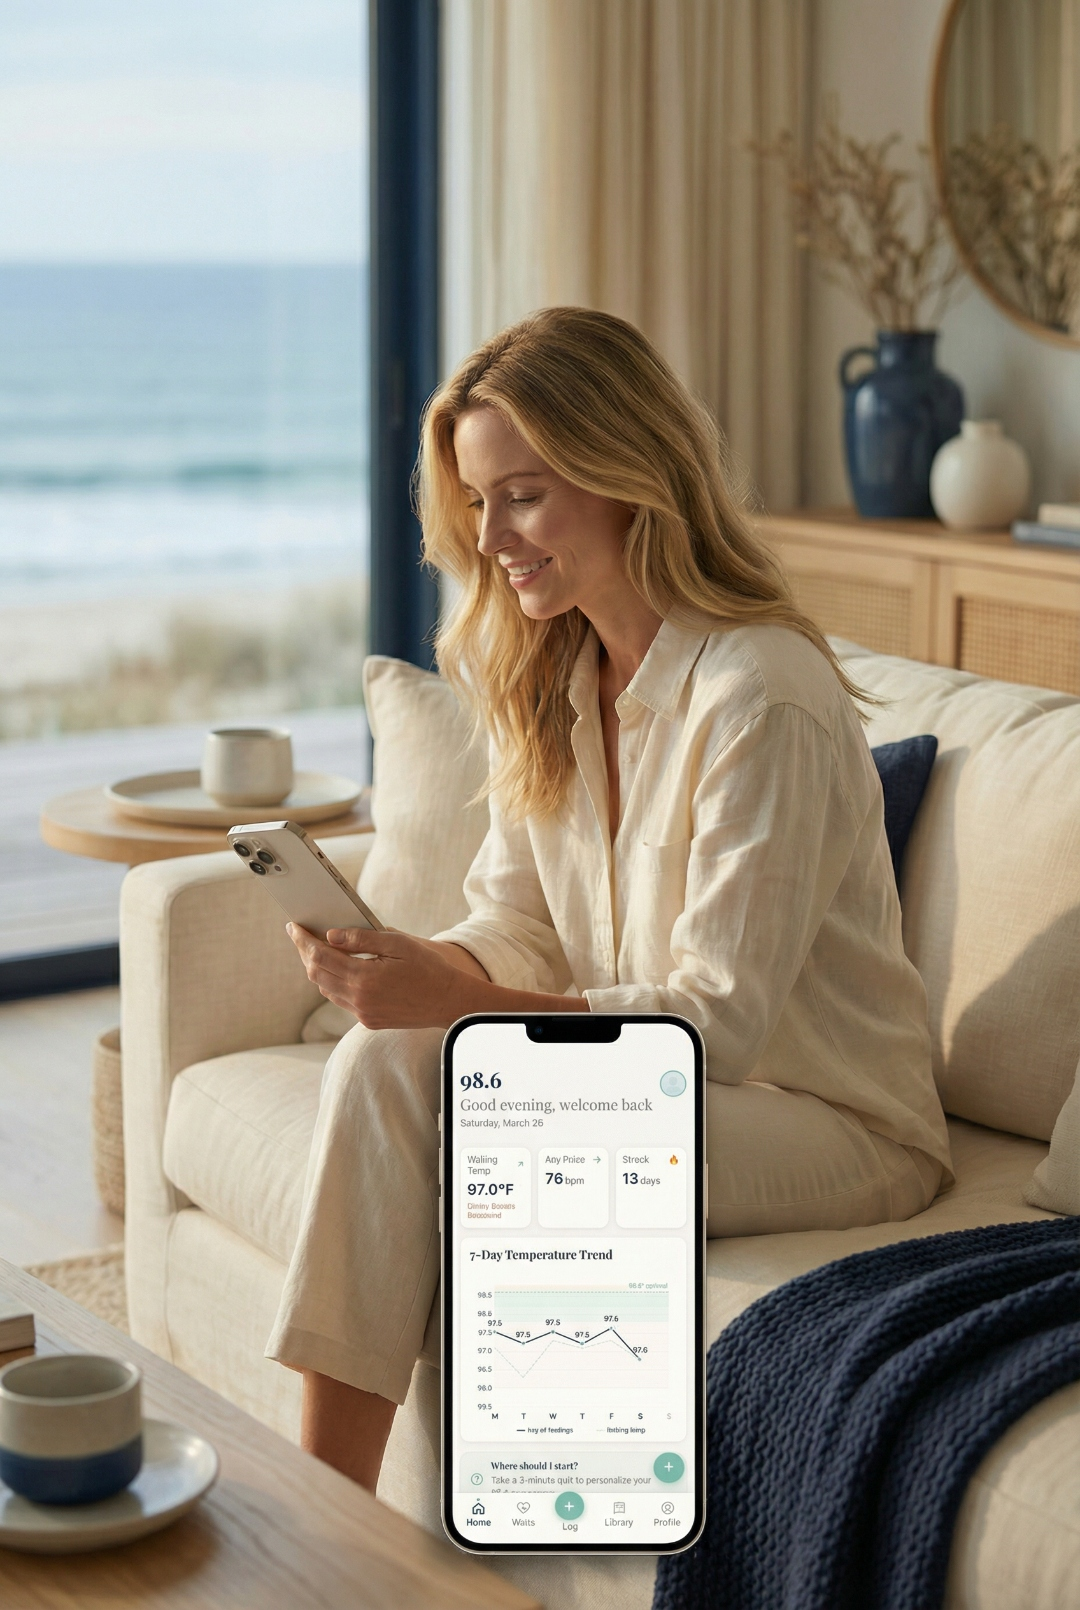
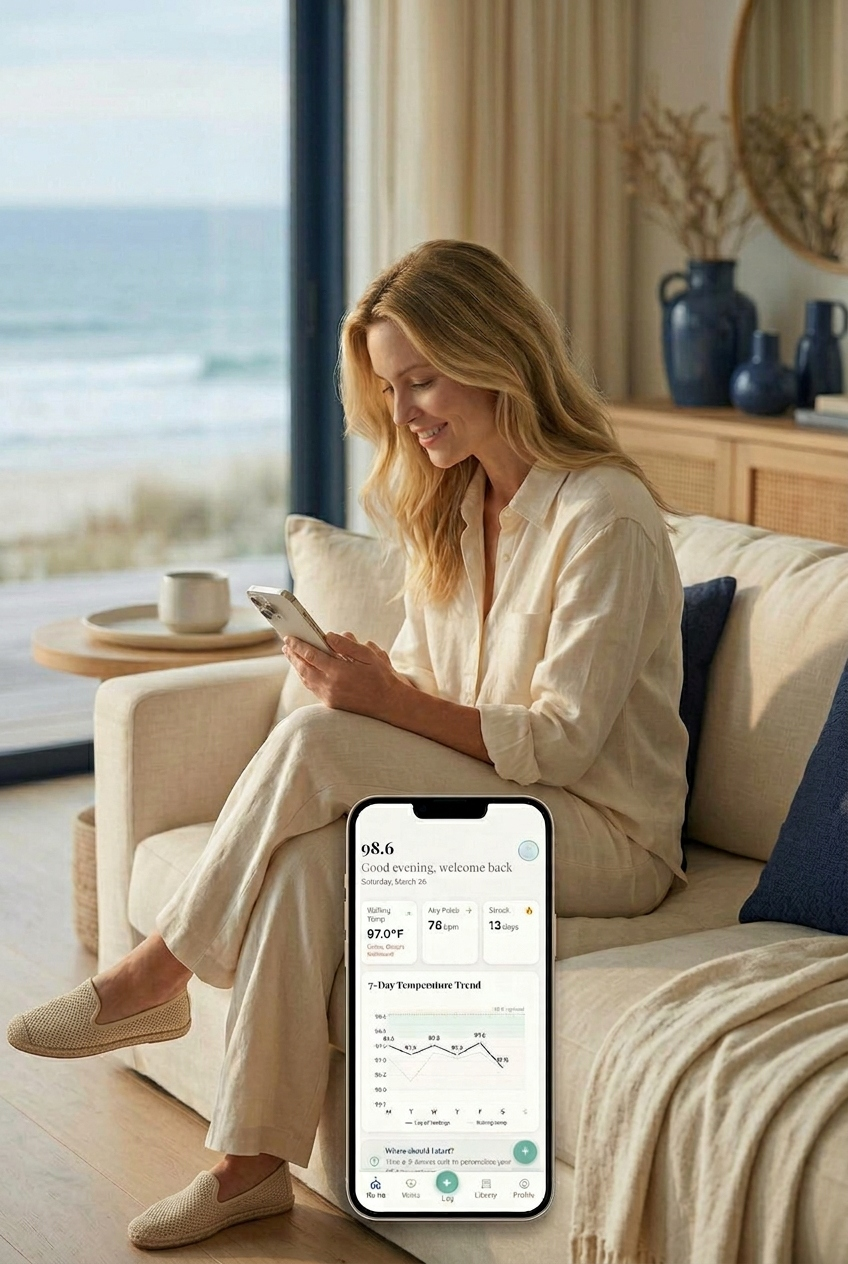
Replace hero image and simplify mobile hero layout

diff --git a/index.html b/index.html
@@ -391,6 +391,19 @@ a, button {
   font-weight: 300;
 }
 
+.hero__sub--mobile {
+  display: none;
+}
+
+@media (max-width: 768px) {
+  .hero__sub--desktop {
+    display: none;
+  }
+  .hero__sub--mobile {
+    display: block;
+  }
+}
+
 .hero__actions {
   display: flex;
   flex-wrap: wrap;
@@ -451,18 +464,14 @@ a, button {
 .hero__image-wrap {
   position: relative;
   border-radius: 1rem;
-  overflow: hidden;
-  box-shadow: 0 6px 30px rgba(31, 54, 84, 0.09), 0 2px 8px rgba(31, 54, 84, 0.05);
-  max-height: 580px;
+  overflow: visible;
   align-self: center;
 }
 
 .hero__image-wrap img {
   width: 100%;
-  height: 100%;
+  height: auto;
   display: block;
-  object-fit: cover;
-  object-position: top center;
 }
 
 /* ---- Hero: tablet ---- */
@@ -471,22 +480,19 @@ a, button {
     grid-template-columns: 54% 1fr;
     gap: 1.5rem;
   }
-  .hero__image-wrap {
-    max-height: 500px;
-  }
 }
 
 /* ---- Hero: mobile ---- */
 @media (max-width: 768px) {
   .hero {
-    padding-top: 1rem;
-    padding-bottom: 1.25rem;
+    padding-top: 0.75rem;
+    padding-bottom: 1rem;
   }
 
   .hero__content {
     grid-template-columns: 1fr;
     text-align: center;
-    gap: 1.25rem;
+    gap: 0;
   }
 
   .hero__copy {
@@ -497,63 +503,56 @@ a, button {
 
   .hero__image-wrap {
     order: 2;
-    max-height: 250px;
-    max-width: 100%;
+    margin-top: 1.5rem;
     margin-inline: auto;
     border-radius: 0.75rem;
-  }
-
-  .hero__image-wrap img {
-    object-position: 50% 25%;
+    max-width: 320px;
   }
 
   .hero h1 {
     max-width: none;
     margin-inline: auto;
-    font-size: clamp(1.75rem, 6vw, 2.25rem);
-    margin-bottom: 0.6rem;
+    font-size: clamp(1.65rem, 5.5vw, 2.1rem);
+    margin-bottom: 0.75rem;
   }
 
   .hero__sub {
     margin-inline: auto;
-    font-size: 0.95rem;
-    margin-bottom: 1rem;
+    font-size: 0.9rem;
+    margin-bottom: 1.25rem;
+    line-height: 1.5;
   }
 
   .hero__badge {
     margin-bottom: 0.75rem;
+    font-size: 0.8rem;
+    padding: 0.2rem 0.6rem;
   }
 
   .hero__actions {
     justify-content: center;
-    margin-bottom: 0.75rem;
-    gap: 0.5rem;
+    margin-bottom: 0;
   }
 
+  /* Hide secondary CTA on mobile */
   .hero__actions .btn--outline {
-    padding: var(--space-2) var(--space-4);
-    font-size: var(--text-sm);
-    min-height: 40px;
-    border-width: 1px;
+    display: none;
   }
 
+  /* Make primary CTA wider on mobile */
+  .hero__actions .btn--primary {
+    width: 100%;
+    max-width: 320px;
+  }
+
+  /* Hide trust/proof row on mobile */
   .hero__proof {
-    justify-content: center;
-    gap: 0.35rem 0.75rem;
-    font-size: 0.8rem;
+    display: none;
   }
-}
 
-/* ---- Hero: small phones ---- */
-@media (max-width: 430px) {
+  /* No shadow on mobile image */
   .hero__image-wrap {
-    max-height: 220px;
-  }
-
-  .hero__proof {
-    flex-direction: column;
-    align-items: center;
-    gap: 0.2rem;
+    box-shadow: none;
   }
 }
 
@@ -1666,7 +1665,8 @@ a, button {
 
         <h1>Finally see what your metabolism is trying to tell you</h1>
 
-        <p class="hero__sub">Your labs say you’re fine, but the fatigue, brain fog, and cold hands won’t stop. 98.6° tracks your temperature and pulse daily, spots the patterns blood tests miss, and gives you a report your doctor can use.</p>
+        <p class="hero__sub hero__sub--desktop">Your labs say you’re fine, but the fatigue, brain fog, and cold hands won’t stop. 98.6° tracks your temperature and pulse daily, spots the patterns blood tests miss, and gives you a report your doctor can use.</p>
+        <p class="hero__sub hero__sub--mobile">98.6° tracks your daily temperature and pulse to reveal the metabolic patterns blood tests miss.</p>
 
         <div class="hero__actions">
           <a href="#pricing" class="btn btn--primary">Get 98.6° for $59.99</a>
@@ -1690,7 +1690,7 @@ a, button {
       </div>
 
       <div class="hero__image-wrap">
-        <img src="./assets/hero-lifestyle.jpg" alt="Woman checking the 98.6° app on her phone, relaxing on a couch with a coastal view" width="800" height="1000" loading="eager">
+        <img src="./assets/hero-lifestyle.jpg" alt="Woman checking the 98.6° app on her phone, relaxing on a couch with a coastal view" width="848" height="1264" loading="eager">
       </div>
     </div>
   </section>
